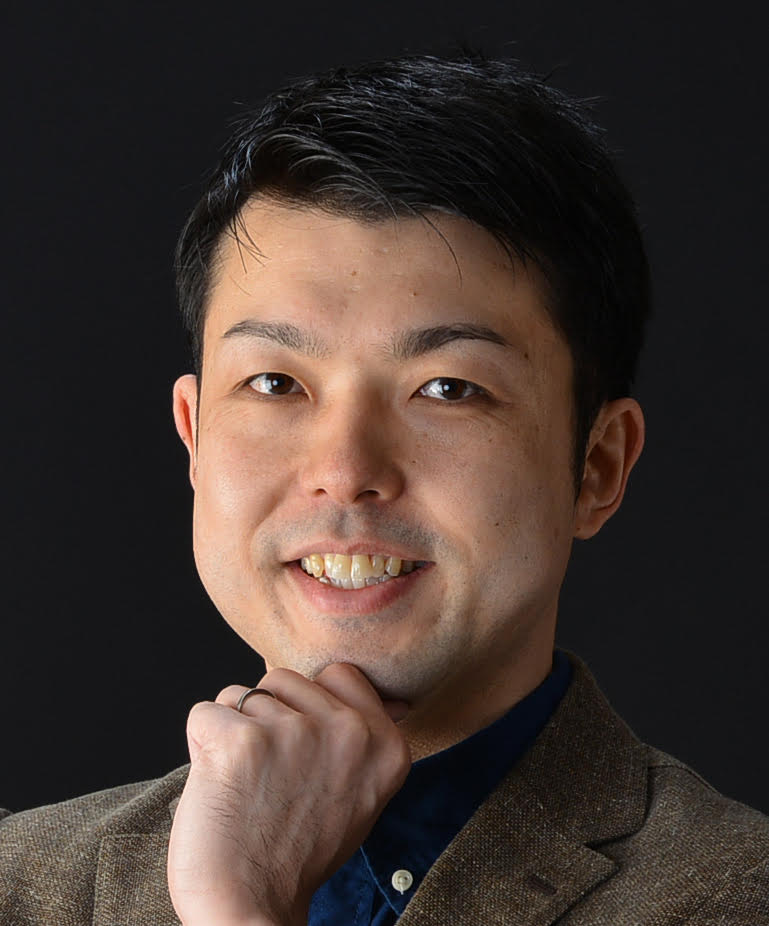
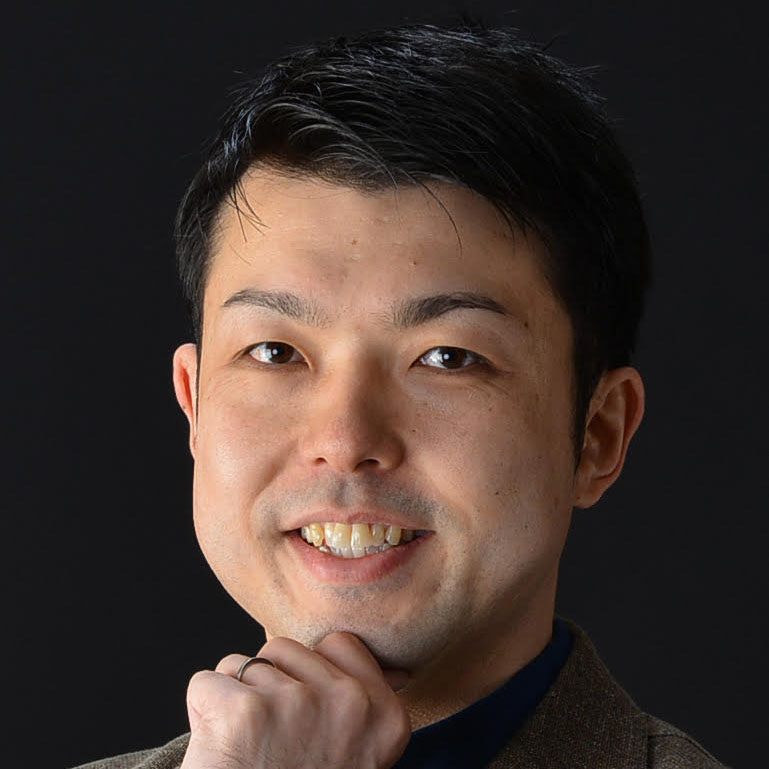
fix talk session image

diff --git a/src/views/contents/TalkSessionPage.vue b/src/views/contents/TalkSessionPage.vue
@@ -49,7 +49,7 @@ export default {
       },
       {
         imageSize: 160,
-        imageName: 'unknown.png',
+        imageName: 'watanabe.jpg',
         link: 'https://nrid.nii.ac.jp/ja/nrid/1000000900086/',
         name: '渡辺 謙',
         sentence: 'NTTコミュニケーション科学基礎研究研究員を経て現在は早稲田大学理工学術院総合研究所客員研究員を務める。e スポーツに関する研究に従事。'
